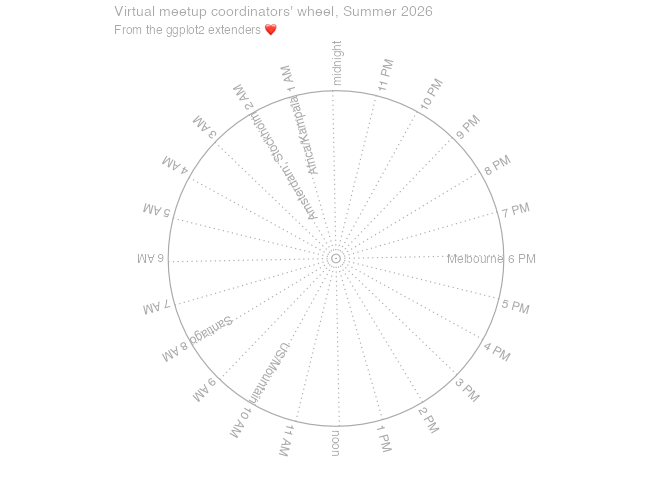
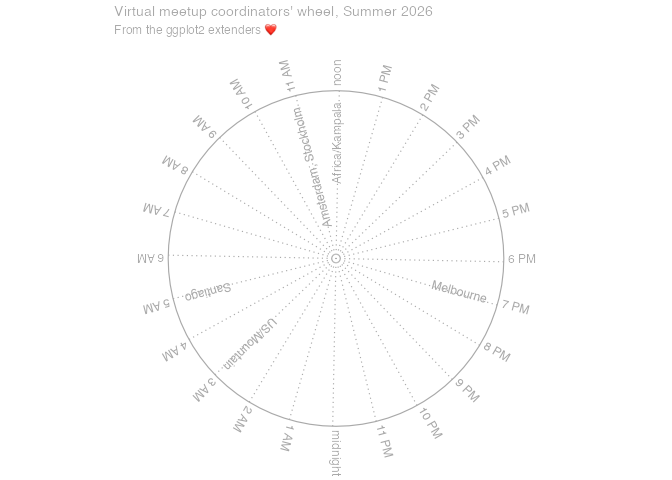
propogating the arguments to the locals calculator

diff --git a/README.md b/README.md
@@ -163,6 +163,8 @@ gglobalclocks:::date_time_tz_to_tzs(
   right_join(a_day, by = "hour") |> 
   arrange(-hour)
   
+
+
 }
 ```
 
@@ -175,7 +177,7 @@ compute_panel_around <- function(data, scales, around_start = 0, radius = 1, x0 
   
   data |> 
     mutate(row_id = row_number()) |> 
-    mutate(around = 2 * pi * row_id/n() + around_start * 2*pi / 360,
+    mutate(around = - 2 * pi * row_id/n() - around_start * 2*pi / 360,
            x = radius*cos(around) + x0, 
            y = radius*sin(around) + y0,
            angle = 360*around/(2*pi),
@@ -210,8 +212,8 @@ compute_panel_locales_around <- function(data, scales, around_start = 0, radius 
            str_extract("\\d+") |> 
            as.numeric())  |>
   right_join(a_day, by = "hour") |> 
-  arrange(-hour) |> 
-  compute_panel_around() |>
+  arrange(hour) |> 
+  compute_panel_around(scales = scales, around_start = around_start, radius = radius, x0 = x0, y0 = y0) |>
   filter_out(is.na(locations)) |> 
   mutate(PANEL = 1) # not the best, Gina, not the best...
 
@@ -239,11 +241,11 @@ tribble(~tz,
 #> # A tibble: 5 × 14
 #>   locations  local_date_time_utc local_time_hm local_wday_date  hour hour_pretty
 #>   <fct>      <dttm>              <chr>         <chr>           <dbl> <chr>      
-#> 1 Africa/Ka… 2026-08-24 18:00:00 18:00         Mon, Aug 24        18 6 PM       
-#> 2 Amsterdam… 2026-08-24 17:00:00 17:00         Mon, Aug 24        17 5 PM       
-#> 3 Santiago   2026-08-24 11:00:00 11:00         Mon, Aug 24        11 11 AM      
-#> 4 US/Mounta… 2026-08-24 09:00:00 09:00         Mon, Aug 24         9 9 AM       
-#> 5 Melbourne  2026-08-25 01:00:00 01:00         Tue, Aug 25         1 1 AM       
+#> 1 Melbourne  2026-08-26 01:00:00 01:00         Wed, Aug 26         1 1 AM       
+#> 2 US/Mounta… 2026-08-25 09:00:00 09:00         Tue, Aug 25         9 9 AM       
+#> 3 Santiago   2026-08-25 11:00:00 11:00         Tue, Aug 25        11 11 AM      
+#> 4 Amsterdam… 2026-08-25 17:00:00 17:00         Tue, Aug 25        17 5 PM       
+#> 5 Africa/Ka… 2026-08-25 18:00:00 18:00         Tue, Aug 25        18 6 PM       
 #> # ℹ 8 more variables: row_id <int>, around <dbl>, x <dbl>, y <dbl>,
 #> #   angle <dbl>, x0 <dbl>, y0 <dbl>, PANEL <dbl>
 
@@ -277,7 +279,7 @@ tribble(~tz,
 ![](README_files/figure-gfm/unnamed-chunk-4-1.png)<!-- -->
 
 ``` r
-geom_text_places <- make_constructor(GeomText, stat = StatLocalesAround, radius = .9, hjust = 1)
+geom_text_places <- make_constructor(GeomText, stat = StatLocalesAround, radius = .95, hjust = 1)
 stamp_text_hours <- make_constructor(GeomText, stat = StatAround, radius = 1.025, hjust = 0, inherit.aes = FALSE, data = a_day, mapping = aes(label = hour_pretty))
 stamp_segment_pie_cuts <- make_constructor(GeomSegment, stat = StatAround, around_start = pi/24 + 1, linetype = "dotted", inherit.aes = FALSE, data = a_day, mapping = aes(label = hour_pretty))
 
@@ -327,20 +329,29 @@ chart_tz_wheel <- function(
 }
 
 
-lag_around <- function(x, n){
-  
-  c(x[(n+1):length(x)], x[1:n])
-  
-}
+# lag_around <- function(x, n){
+#   
+#   c(x[(n+1):length(x)], x[1:n])
+#   
+# }
 ```
 
 ## Done! (?)
 
 ``` r
 tribble(~timezone,
-        Sys.timezone(),
+        "America/Denver",
+        "America/Chicago",
+        "America/San_Francisco",
+        "America/New_York",
         "Australia/Melbourne", 
-        "Europe/Amsterdam") |>
+        "Europe/Amsterdam",
+        "Europe/Berlin",
+        "Europe/London",
+        "America/Buenos_Aires",
+        "America/Santiago",
+        "Africa/Kampala",
+        "Pacific/Auckland") |>
   ggplot() + 
     aes(tz = timezone) + 
     chart_tz_wheel() + 
@@ -348,6 +359,21 @@ tribble(~timezone,
 ```
 
 ![](README_files/figure-gfm/unnamed-chunk-7-1.png)<!-- -->
+
+``` r
+
+OlsonNames() |> sample(20)
+#>  [1] "Etc/GMT+5"                      "Africa/Ouagadougou"            
+#>  [3] "America/Argentina/Cordoba"      "Asia/Ashgabat"                 
+#>  [5] "Asia/Karachi"                   "Etc/GMT-9"                     
+#>  [7] "America/Scoresbysund"           "Asia/Bangkok"                  
+#>  [9] "Europe/Helsinki"                "America/Argentina/Salta"       
+#> [11] "America/Santiago"               "Pacific/Pago_Pago"             
+#> [13] "Etc/GMT+8"                      "Asia/Dubai"                    
+#> [15] "America/North_Dakota/New_Salem" "Kwajalein"                     
+#> [17] "Atlantic/Reykjavik"             "Asia/Pontianak"                
+#> [19] "America/Manaus"                 "America/Cordoba"
+```
 
 # Anatomy of wrapper functions for pies?
 
